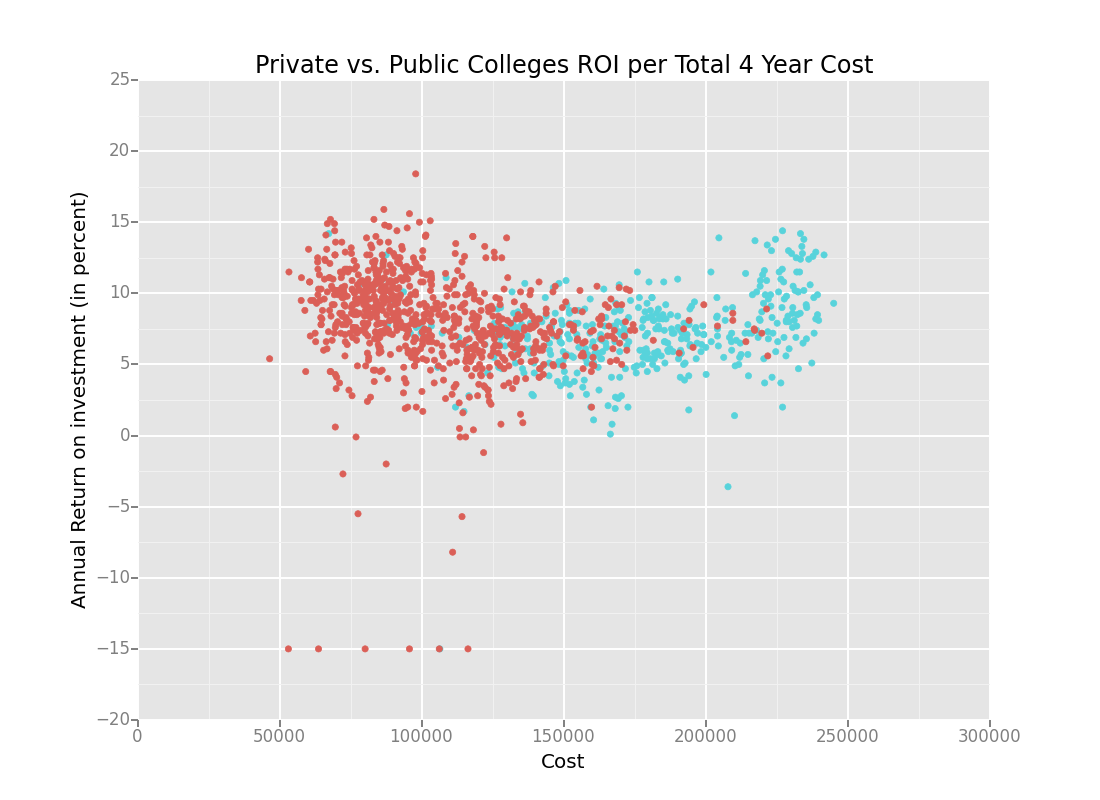
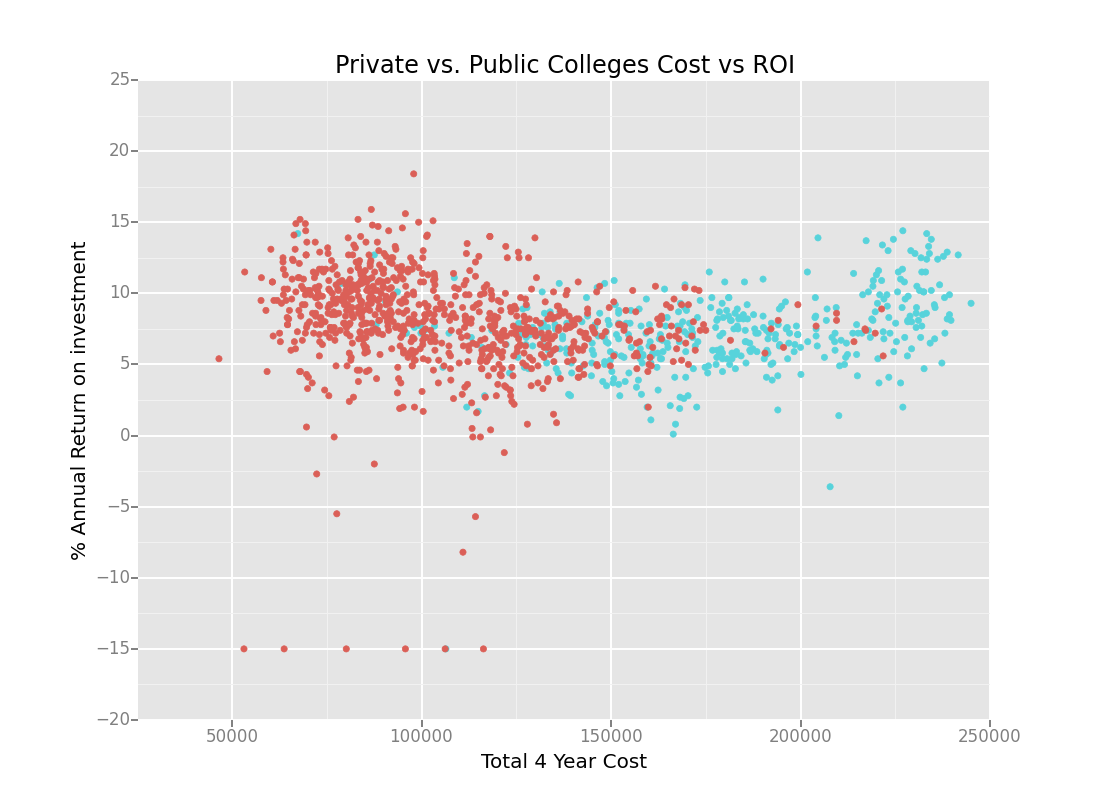
Updated Plots

diff --git a/_posts/2015-03-28-Lauren-blogpost.md b/_posts/2015-03-28-Lauren-blogpost.md
@@ -1,3 +1,6 @@
+#git add .
+#git commit -m "added graph"
+#git push origin gh-pages
 ---
 layout: post
 title:  "EDAV Spring 2015: Chart critique blog post"
@@ -20,10 +23,24 @@ author: Lauren McCarthy
 
 + Use data to inlcude % of Annual ROI including financial aid. The % of Annual ROI is the % of expected ROI recieved every year after graduation.
 + Show the first plot with x-axis and y-axis starting from zero as well as with % of Annual ROI vs Total 4 Year cost
-+ Show a histogram of the Total 4 Year cost of all colleges labeling Public vs. Private. 
++ Show a histogram of the Total 4 Year Cost of all colleges labeling Public vs. Private. 
++ Show the average ROI and average 4 Year Cost of Private vs. Public Colleges.
 
 #My Plots
+##In all plots Blue represents a Private School and Red represents a Public School
 ![Return on Investment For Public and Private Colleges](https://raw.githubusercontent.com/lm2221/edav/gh-pages/_posts/assets/Lauren/figure_1.png)
+
+![Return on Investment For Public and Private Colleges](https://raw.githubusercontent.com/lm2221/edav/gh-pages/_posts/assets/Lauren/figure_2.png)
+
+![Return on Investment For Public and Private Colleges](https://raw.githubusercontent.com/lm2221/edav/gh-pages/_posts/assets/Lauren/figure_3.png)
+
+![Return on Investment For Public and Private Colleges](https://raw.githubusercontent.com/lm2221/edav/gh-pages/_posts/assets/Lauren/figure_4.png)
+
+#Analysis
+
++ Scatter Plot: Updated Graph does not show as much of a differentiation between Public vs. Private Colleges.
++ Histogram: Shows the distribution of the 4 Year Cost of Colleges Private vs. Public
++ Density Graphs: I found the density graphs to have the most useful information. While it shows a differentiation between the cost of the Public colleges vs the private colleges. The ROI Density graph shows that they pick generally in the same place showing that there is not much of an advantage to go to a private school in terms on ROI. This could also be due to the fact that in general Private schools give much larger Financial Aid packages therefore, despite the schools being expensive the average ROI will have the Finacial Aid factored in.
 
 #Conclusion
 
@@ -61,4 +78,20 @@ with open('data_percents.csv', 'w') as f:
 ```
 
 
-+ Code to plot graphs using python and ggplot.
++ Code to plot graphs using python and ggplot. This is a work in progress. I was not able to get the legends to show up on the plot. It seems that these should show up automatically. I will continue to work on this. I would also like to use a more sophisticated packing so that when scrolling over the data the feature will automatically appear. To be continued...
+
+```
+from ggplot import * 
+import pandas as pd 
+import numpy as np
+import matplotlib.pyplot as plt
+
+df=pd.read_csv('data_percents_2.csv',sep=',', header=None, names=['College','Private','ROI','Cost'])
+
+p_1=ggplot(df, aes(x='Cost',y='ROI', color='Private')) + geom_point() + labs("Total 4 Year Cost","% "+"Annual Return on investment") + ggtitle("Private vs. Public Colleges Cost vs ROI")+ xlim(25000,250000)
+p_2=ggplot(df, aes(x='Cost',fill='Private'))+ geom_histogram() + labs("Total 4 Year Cost")+ggtitle("Private vs Public Collages 4 Year Cost")
+p_3=ggplot(df, aes(x='Cost',color='Private')) + geom_density() +labs("Total 4 Year cost", "Denisty")+ggtitle("Density Graph for Private vs. Public")
+p_4=ggplot(df, aes(x='ROI',color='Private')) + geom_density() +labs("ROI","Density")+ggtitle("Density Graph for ROI Private vs Public")
+
+```
+
